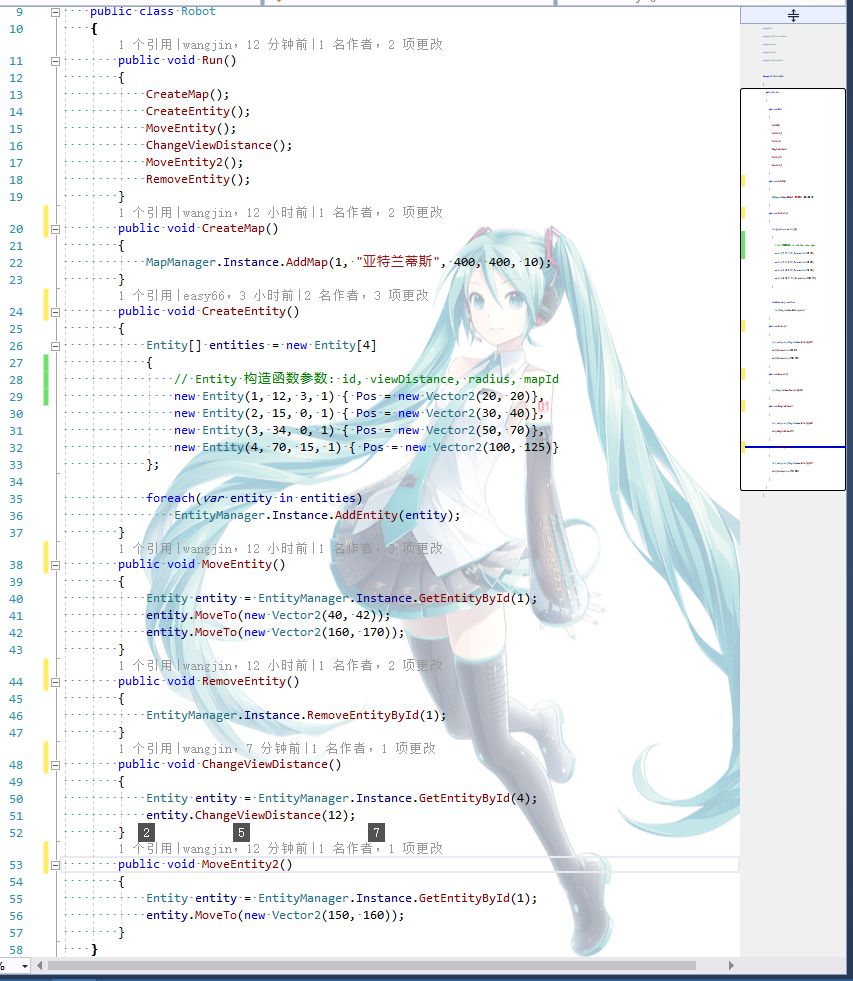
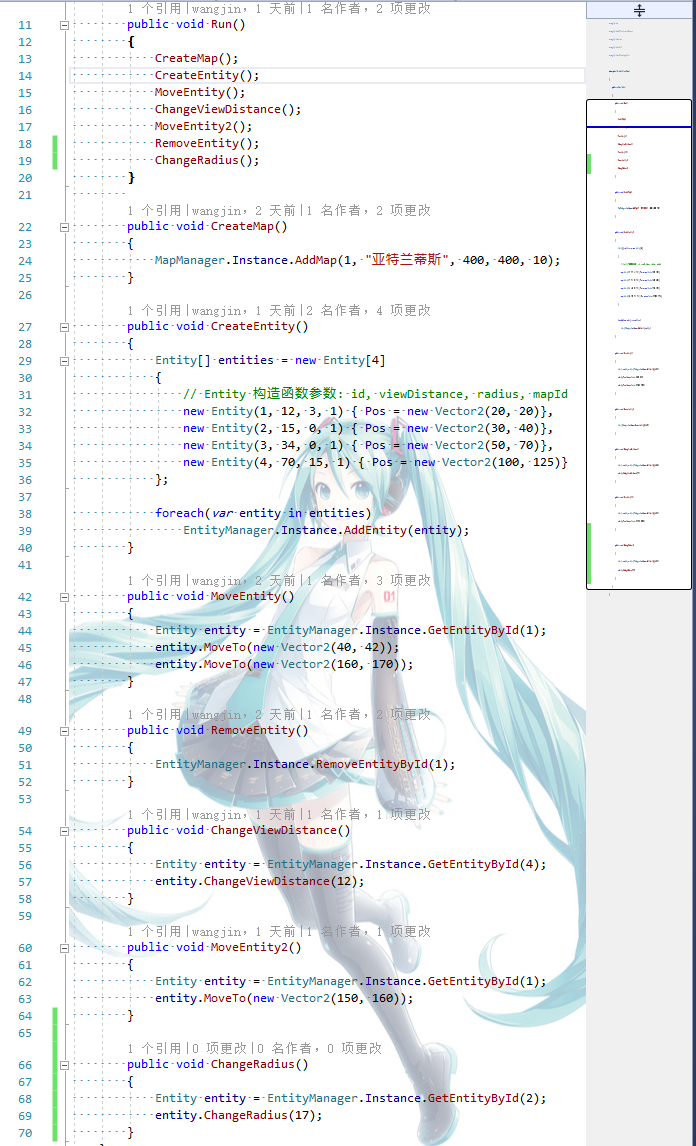
* 增加更改实体体积测试代码及效果图

diff --git a/VariableView/Robot/Robot.cs b/VariableView/Robot/Robot.cs
@@ -16,6 +16,7 @@ namespace VariableView.Robot
             ChangeViewDistance();
             MoveEntity2();
             RemoveEntity();
+            ChangeRadius();
         }
         
         public void CreateMap()
@@ -60,6 +61,12 @@ namespace VariableView.Robot
         {
             Entity entity = EntityManager.Instance.GetEntityById(1);
             entity.MoveTo(new Vector2(150, 160));
+        }
+
+        public void ChangeRadius()
+        {
+            Entity entity = EntityManager.Instance.GetEntityById(2);
+            entity.ChangeRadius(17);
         }
     }
 }

diff --git a/VariableView/Entity.cs b/VariableView/Entity.cs
@@ -89,6 +89,8 @@ namespace VariableView
         /// <param name="newRadius"></param>
         public void ChangeRadius(int newRadius)
         {
+            Console.WriteLine($">>> Entity {Id} change radius from {radius} to {newRadius}");
+
             map.ChangeEntityRadius(this, newRadius);
             radius = newRadius;
         }

diff --git a/README.md b/README.md
@@ -1,14 +1,17 @@
 # VariableView
 ### 本代码的功能是演示一种视野处理方式，可以满足的需求有：
 1. 每个地图可以单独设置不同的格子大小，格子大小影响视野精度，也会对内存和计算量产生影响。
-2. 每个实体可以设置自己的可视距离和占据的体积，其单位都是游戏内的真实单位而不是格子数。
+2. 每个实体的单位都是游戏内的真实单位而不是格子数。
 3. 可以实现动态的更改实体的可视距离以便满足获得千里眼道具后可以看的更远等类似需求。
 4. 可以动态修改实体体积以实现变身等功能。
 
 ### 实现原理
 * 将地图划分成等大的格子，每个格子内存储位于当前格子内的实体对象链表和正在关注当前格子的实体链表。
 * 实体对象存储它正在关注的所有格子以及它所占据的格子,如果是非质点实体那么它将同时存在于多个格子上。
-* 实体移动时更改自己所在的格子，触发旧格子内的实体离开事件和新格子的实体进入事件，对应的格子会把事件向注册的所有实体广播出去，实体移动后更新自己的关注列表，找出不再关注的格子，把自己从对应格子反注册，找出新关注的格子，将自己注册进去(此处用了一个快速求两个集合的交集和差集的算法，见 `Utils.cs`)
+* 格子内的实体数量发生改变时向关注此格子的所有关注者广播事件。
+* 实体移动时更改自己所在的格子，触发旧格子内的实体离开事件和新格子的实体进入事件，实体移动后更新自己的关注列表，找出不再关注的格子，把自己从对应格子反注册，找出新关注的格子，将自己注册进去(此处用了一个快速求两个集合的交集和差集的算法，见 `Utils.cs`)
+* 实体更改自己的视野时向变更的相关格子关注者列表注册或反注册自己。
+* 实体更改自己的体积时同时修改发生变更的占据格子和关注格子(比较耗资源)。
 
 ### 运行效果图
 ![image](https://github.com/easy66/VariableView/blob/master/Code.png)
